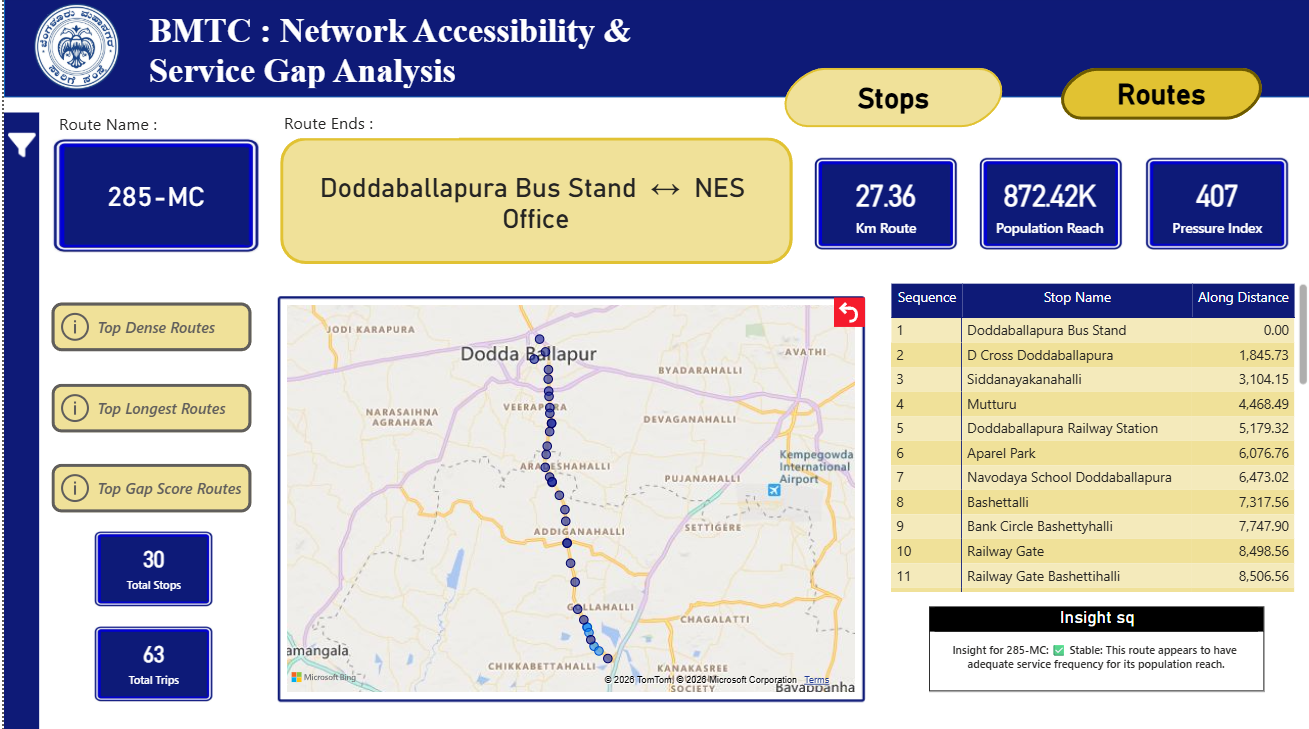
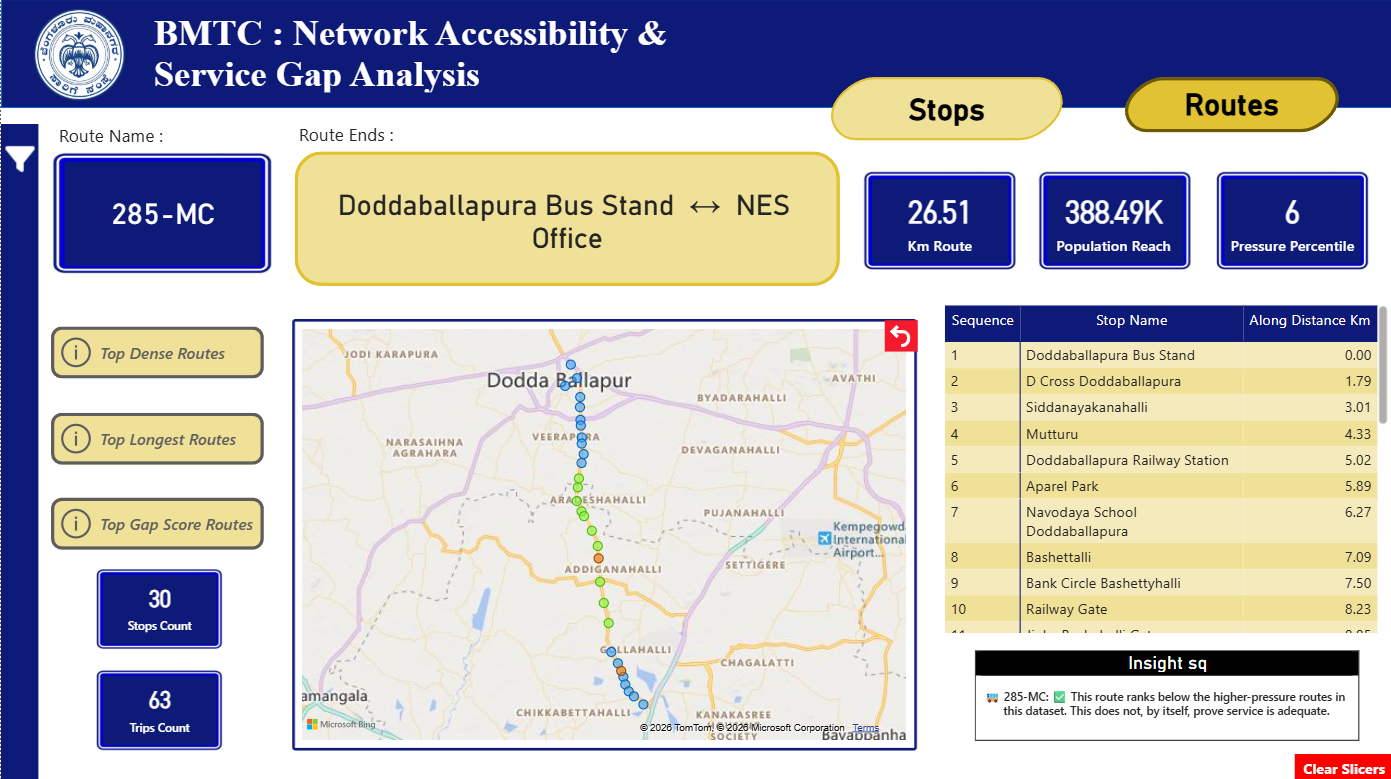
Updated BMTC Project

diff --git a/src/data/portfolio.js b/src/data/portfolio.js
@@ -392,147 +392,169 @@ export const projects = [
   },
   //Project 2
   {
-    id: 'bmtc',
-    title: 'BMTC Transit Accessibility & Service Gap Analysis',
-    subtitle:
-      'Spatial gap analysis identifying transit supply and demand imbalances',
+  id: 'bmtc',
+  title: 'BMTC Transit Accessibility & Service Gap Analysis',
+  subtitle:
+    'Exploring bus-stop service gaps using geospatial analysis and nearby population estimates',
 
-    thumbnail: '/projects/project2/thumb.png',
-    status: "Completed",
+  thumbnail: '/projects/project2/thumb.png',
+  status: 'Completed',
 
-    themeColor: '#EAB308',
+  themeColor: '#EAB308',
 
-    // Used ONLY on Overview Featured Projects & Project List
-    tags: ['Power BI', 'Python', 'SQL'],
+  // Used ONLY on Overview Featured Projects & Project List
+  tags: ['Power BI', 'Python', 'Geospatial Analysis'],
 
-    // Used in Project Detail page
-    tools: [
-      'Power BI (DAX, Data Modeling)',
-      'Python',
-      'SQL',
-      'Power Query',
-    ],
+  // Used in Project Detail page
+  tools: [
+    'Power BI (DAX, Power Query)',
+    'Python (Pandas, GeoPandas)',
+    'GHSL Population Data',
+  ],
 
-    techniques: [
-      'Spatial Joins & Route Mapping',
-      'Custom DAX Filter Context Logic',
-      'Supply and Demand Gap Analysis',
-    ],
+  techniques: [
+    'Geospatial Analysis and Spatial Joins',
+    'Route-Stop Mapping and Clustering',
+    'Custom Demand, Supply and Gap Scores',
+    'Interactive Power BI Dashboards',
+  ],
 
-    metrics: [
-      {
-        value: '627',
-        unit: "Stops",
-        label: 'CRITICAL SERVICE GAPS',
-        description:
-          'Identified specific high-density bus stops suffering from severe supply and demand imbalance',
-      },
-      {
-        value: '50',
-        unit: "Meters",
-        label: 'SPATIAL BUFFER JOIN',
-        description:
-          'Applied geospatial logic to physically map 4,655 isolated bus stops to 4,009 transit routes',
-      },
-    ],
+  metrics: [
+    {
+      value: '4,655',
+      unit: 'Stops',
+      label: 'STOPS ANALYZED',
+      description:
+        'Prepared stop-level data with nearby population estimates and relative demand, supply and service-gap scores',
+    },
+    {
+      value: '413',
+      unit: 'Stops',
+      label: 'CRITICAL GAP FLAGS',
+      description:
+        '8.9% of analyzed stops crossed the project’s critical-gap threshold and were flagged for further review',
+    },
+  ],
 
-    showcase: [
-      '/projects/project2/Stops.png',
-      '/projects/project2/Routes 1.png',
-      '/projects/project2/Routes 2.png',
-    ],
+  showcase: [
+    '/projects/project2/Stops.png',
+    '/projects/project2/Routes 1.png',
+    '/projects/project2/Routes 2.png',
+  ],
 
-    links: {
-      github: 'https://github.com/build-by-Ayush/The-BMTC-Transit-Analysis-Dashboard.git',
-      liveDemo: null,
-      video: null,
+  links: {
+    github: 'https://github.com/build-by-Ayush/The-BMTC-Transit-Analysis-Dashboard.git',
+    liveDemo: null,
+    video: null,
+  },
+
+  insights: [
+    {
+      heading: 'The Problem',
+      paragraphs: [
+        "I wanted to explore whether recorded bus service indicators were broadly aligned with the population living near bus stops in Bengaluru. Finding data that was ready for this analysis was a challenge. The available BMTC-derived dataset provided stop locations, route geometries and service counts, but it did not provide a dependable route-to-stop mapping or actual passenger ridership data. I therefore focused on building an exploratory analysis using the available information and clearly documenting its limitations.",
+      ],
     },
 
-    insights: [
-      {
-        heading: 'The Business Problem',
-        paragraphs: [
-          "Bengaluru's rapid urban growth makes transit planning incredibly difficult. I started with a disconnected dataset containing only basic bus stop coordinates, text geometry for routes, and trip counts. There was no relational mapping between stops and routes, and no passenger volume data. To solve this, I built a geospatial intelligence system that answers a critical operational question: Are bus services actually distributed where people live?.",
-        ],
-      },
+    {
+      heading: '1. Preparing the Data',
+      paragraphs: [
+        'I used Python to clean the stop and route data and prepare it for spatial analysis. I also explored publicly available data sources for population information and integrated GHSL (Global Human Settlement Layer) population data to estimate the population surrounding each stop.',
+      ],
+      bullets: [
+        {
+          title: 'Population Around Bus Stops',
+          description:
+            'Created a 1 km catchment around each stop and estimated its surrounding population from the GHSL population raster. This provides a local population proxy, not a count of bus passengers.',
+        },
+        {
+          title: 'Connecting Stops and Routes',
+          description:
+            'Used GeoPandas to match stops within a 50 m buffer of route geometries. I then grouped nearby candidates using a 100 m clustering rule to reduce potential duplicate matches and estimate the stop sequence along each route.',
+        },
+      ],
+    },
 
-      {
-        heading: '1. Geospatial Data Engineering',
-        paragraphs: [
-          'Because the original data lacked relationship keys and demand metrics, I sourced European Union GHSL population data to estimate local transit demand.',
-        ],
-        bullets: [
-          {
-            title: 'Spatial Conversion',
-            description:
-              'Leveraged AI to assist with complex GeoPandas Python syntax, converting raw text geometries into usable spatial objects.',
-          },
-          {
-            title: 'The 50 Meter Buffer Join',
-            description:
-              'Created a metric buffer around every bus route and performed a spatial join to accurately map 4,655 isolated stops to their respective routes.',
-          },
-        ],
-      },
+    {
+      heading: '2. Comparing Demand and Supply',
+      paragraphs: [
+        'I created custom scores to compare the relative population around each stop with the available service indicators in the dataset. The scores make different measurements easier to compare, while remaining transparent about the assumptions behind them.',
+      ],
+      bullets: [
+        {
+          title: 'Demand and Supply Scores',
+          description:
+            'Used percentile-based scores for catchment population, route count and recorded trip count. The supply score gives equal weight to relative route diversity and recorded service volume.',
+        },
+        {
+          title: 'Service Gap Score',
+          description:
+            'Calculated the difference between demand and supply scores. Positive values flag stops where the population proxy ranks higher than the service proxy, helping identify locations for further investigation.',
+        },
+        {
+          title: 'Route Population and Pressure',
+          description:
+            'Combined unique population-raster cells across the inferred stop catchments of each route. Dividing this estimate by the route’s recorded trip count created a population-to-service indicator that can be compared across routes.',
+        },
+      ],
+    },
 
-      {
-        heading: '2. Solving the Density Paradox',
-        paragraphs: [
-          'Initially, summing the population along a route led to massive double counting due to overlapping 1km stop radiuses.',
-        ],
-        bullets: [
-          {
-            title: 'The Summing Circles Trap',
-            description:
-              'Discarded the misleading total population metric that heavily biased physically long routes over actually dense ones.',
-          },
-          {
-            title: 'The Pressure Index',
-            description:
-              'Engineered a custom metric by dividing the average population along a route by its total daily trips, successfully identifying routes serving massive populations but starved of actual bus frequency.',
-          },
-        ],
-      },
+    {
+      heading: '3. Building the Power BI Dashboard',
+      paragraphs: [
+        'I used Power BI and DAX to turn the prepared datasets into two interactive pages: one for exploring individual bus stops and another for comparing routes. I also worked on the relationships between the route, stop and mapping tables so that selections could filter the relevant map and details.',
+      ],
+      bullets: [
+        {
+          title: 'Stop-Level Exploration',
+          description:
+            'Added KPIs, service-gap categories, population-group comparisons and a map to help users investigate stops with relatively high demand scores and lower service scores.',
+        },
+        {
+          title: 'Route-Level Exploration',
+          description:
+            'Added route length, estimated catchment population, a relative pressure percentile and an inferred stop-sequence table. Users can select routes and explore their mapped stops.',
+        },
+        {
+          title: 'Dynamic Insights and Rankings',
+          description:
+            'Used DAX measures, rankings, bookmarks and text-based insight cards to make route comparisons easier to explore without adding unnecessary pages or charts.',
+        },
+      ],
+    },
 
-      {
-        heading: '3. Power BI Architecture and DAX Logic',
-        paragraphs: [
-          'I built an interactive routing dashboard but faced a major technical conflict where disconnected map slicers and interactive Top 10 tables would cancel each other out.',
-        ],
-        bullets: [
-          {
-            title: 'The Map Bouncer Logic',
-            description:
-              'Engineered a DAX workaround using the ISFILTERED function to act as a logic gate.',
-          },
-          {
-            title: 'Forced Compliance',
-            description:
-              'This logic forced the map engine to obey user table clicks without breaking the disconnected slicer functionality.',
-          },
-        ],
-      },
+    {
+      heading: '4. Findings and What the Project Achieved',
+      paragraphs: [
+        'The final datasets contain 4,655 stops, 3,398 retained routes and 114,608 inferred route-stop clusters. The dashboard provides a way to examine the data at both stop and route level instead of relying only on isolated route or stop counts.',
+      ],
+      bullets: [
+        {
+          title: 'Stops Flagged for Review',
+          description:
+            '413 stops (8.9%) crossed the project-defined critical-gap threshold, while 1,159 stops (24.9%) fell into the broader potential service-gap category. These are screening results, not confirmed service failures.',
+        },
+        {
+          title: 'Population-Group Comparison',
+          description:
+            'The very-high relative population-catchment group had an average gap score of 28.79, compared with -26.40 for the low group. This suggests that the demand proxy and service proxy differ across the groups in this dataset.',
+        },
+        {
+          title: 'A Reusable Analysis Workflow',
+          description:
+            'Prepared three connected datasets for the dashboard: a stop-level table, an enriched route-level table and a route-stop mapping table. The work brought data preparation, spatial analysis, custom calculations and interactive reporting together in one project.',
+        },
+      ],
+    },
 
-      {
-        heading: '4. The Final Impact',
-        paragraphs: [
-          'This project turned a disconnected pile of GPS coordinates into an enterprise grade transit planning tool.',
-        ],
-        bullets: [
-          {
-            title: 'Data Pipeline',
-            description:
-              'Successfully identified 627 critically underserved bus stops suffering from a severe supply and demand imbalance.',
-          },
-          {
-            title: 'Automated Insight Panel',
-            description:
-              'Added a DAX driven text generator that automatically reads the Pressure Index and outputs simple text summaries for decision makers.',
-          },
-        ],
-      },
-    ],
-  },
+    {
+      heading: 'Limitations and Next Steps',
+      paragraphs: [
+        'This is an exploratory portfolio project rather than an operational BMTC service audit. The population estimates represent nearby residents, not passenger demand. The route-stop relationships and stop sequences are inferred from geometry and spatial proximity, so they may include stops that are not actually served by a route. The custom scores are relative indicators designed for this analysis, not official transport-planning standards.',
+      ],
+    },
+  ],
+},
   //Project 3
   {
     id: 'anomly',
